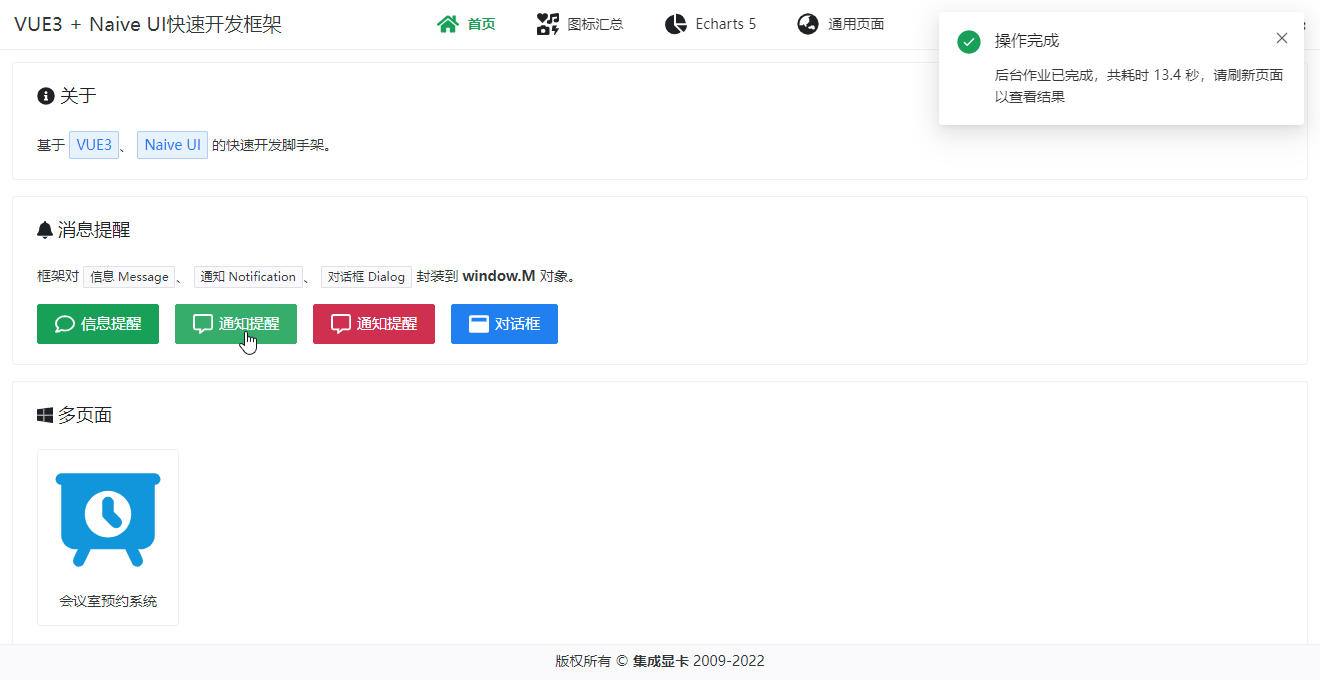
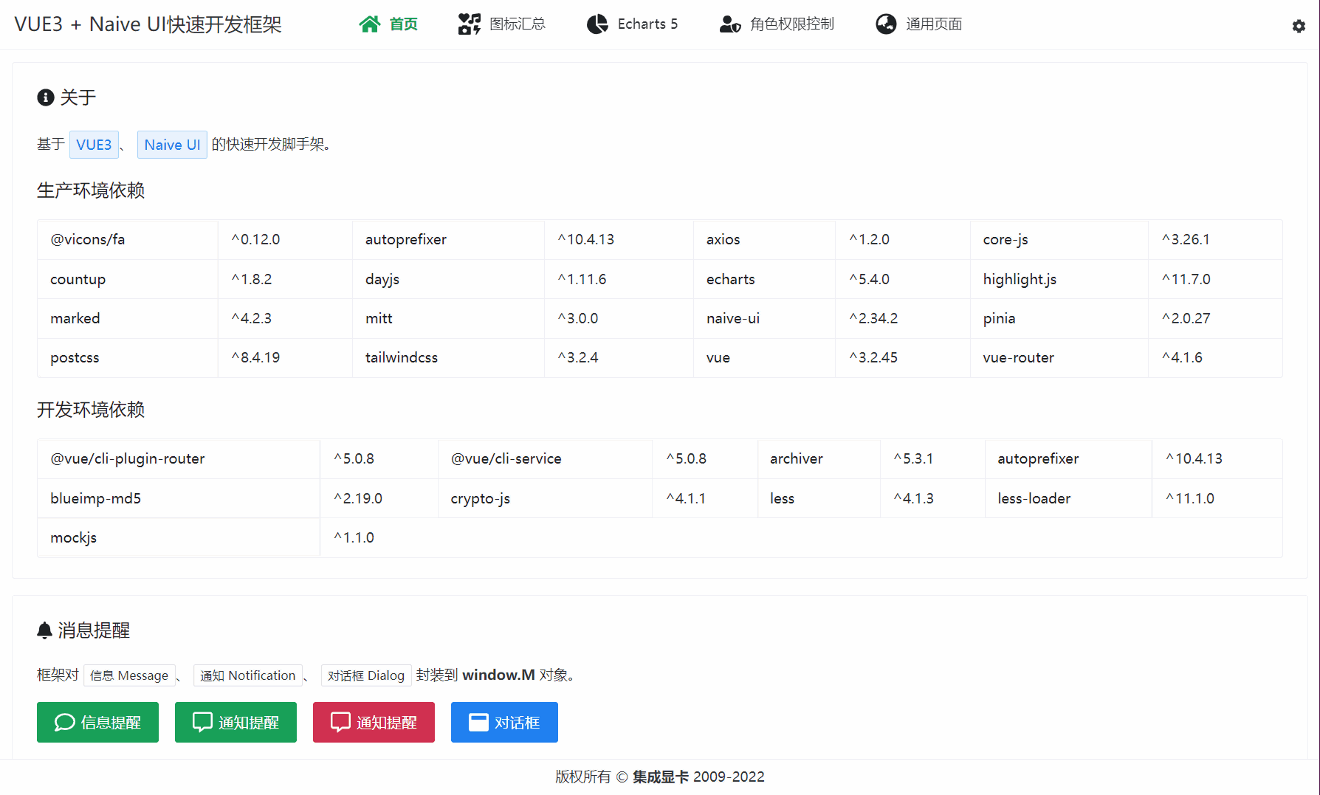
🆙更新依赖版本

diff --git a/src/basic.main.js b/src/basic.main.js
@@ -13,7 +13,55 @@ import { setupDirectives } from '@C/directive'
 
 const isProduction = process.env.NODE_ENV == 'production'
 
-export function initApp(routerPath, enables={}) {
+/**
+ * 向 window 注入全局对象 Config
+ * @param {*} ps
+ */
+const customConfig = (ps = {}) => {
+    window.Config = Object.assign(
+        {
+            JSON: false,                                    //是否以 JSON 格式发送请求，默认 false
+
+            WATERMARK: true,                                //是否显示水印
+            AUTH_URL: "",                                   //远程授权信息获取地址
+            UI_NOTICE_PLACEMENT: "top-right",               //通知框弹出位置
+            appName: window.document.title || _APPNAME_,    //应用名称
+        },
+        ps
+    )
+}
+
+const loadRole = url => new Promise((onOk, onFail) => {
+    RESULT(
+        url, {},
+        d => {
+            let account = Object.assign({ roles: [] }, d.data)
+            //锁定用户对象，不支持修改
+            Object.keys(account).forEach(k => {
+                Object.defineProperty(account, k, { value: account[k], writable: false, enumerable: true, configurable: true })
+            })
+            window.User = account
+            onOk()
+        },
+        {
+            fail(e) {
+                // throw Error(`无法从 ${url} 获取用户信息`, e)
+                console.error(`无法从 ${url} 获取用户信息：`, e)
+                onFail(`无法从 ${url} 获取用户信息`)
+                return true
+            }
+        }
+    )
+})
+
+/**
+ * 初始化应用
+ * @param {*} routerPath    路由对象
+ * @param {*} config        自定义配置，详见 customConfig 方法
+ * @param {*} enables       开关项
+ */
+export async function initApp(routerPath, config={}, enables={}) {
+    customConfig(config)
     enables = Object.assign({banner:true, store: true}, enables)
     if(process.env.NODE_ENV == "test"){
         window.isMock = true
@@ -30,6 +78,10 @@ export function initApp(routerPath, enables={}) {
         //============================================================
         const { setupStore } = require("@/store")
         setupStore(app)
+    }
+
+    if(window.Config.AUTH_URL){
+        await loadRole(window.Config.AUTH_URL).catch(e=> setTimeout(()=> M.notice.error(e), 1000))
     }
 
     if(typeof(routerPath) == 'object' && typeof(routerPath.beforeEach)=='function'){

diff --git a/src/views/demo/Index.vue b/src/views/demo/Index.vue
@@ -6,6 +6,14 @@
         <a href="https://cn.vuejs.org/" target="_blank"><n-tag type="info" class="cursor-pointer">VUE3</n-tag></a>、
         <a href="https://www.naiveui.com" target="_blank"><n-tag type="info" class="cursor-pointer">Naive UI</n-tag></a>
         的快速开发脚手架。
+
+        <n-descriptions class="mt-4"  label-placement="left" bordered :column="4" title="生产环境依赖" size="small">
+            <n-descriptions-item v-for="(version, name) in dependencies" :label="name">{{version}}</n-descriptions-item>
+        </n-descriptions>
+
+        <n-descriptions class="mt-4" label-placement="left" bordered :column="4" title="开发环境依赖" size="small">
+            <n-descriptions-item v-for="(version, name) in devDependencies" :label="name">{{version}}</n-descriptions-item>
+        </n-descriptions>
     </n-card>
 
     <n-card class="mt-4">
@@ -33,7 +41,7 @@
         </n-space>
     </n-card>
 
-    <n-card class="mt-4">
+    <n-card class="mt-2">
         <template #header><Windows class="icon" /> 多页面</template>
 
         <n-space size="large" class="text-center">
@@ -49,7 +57,9 @@
 
 <script setup>
     import { ref,onMounted } from 'vue'
-    import { Cog, InfoCircle,Bell, CommentRegular,CommentAltRegular,WindowMaximize, Windows } from "@vicons/fa"
+    import { Cog, InfoCircle,Bell, CommentRegular,CommentAltRegular,WindowMaximize, Windows, Code } from "@vicons/fa"
+
+    const { dependencies, devDependencies } = _APP_INFO_
 
     let showMessage = text=> M.ok(text)
     let showNotice = ()=> M.notice.ok('后台作业已完成，共耗时 13.4 秒，请刷新页面以查看结果', '操作完成')
@@ -68,8 +78,4 @@
     let jump = url=>{
         location.href = url
     }
-
-    onMounted(() => {
-
-    })
 </script>

diff --git a/src/util/http.js b/src/util/http.js
@@ -2,7 +2,7 @@
  * @Author: 集成显卡
  * @Date: 2022-08-23 13:04:59
  * @Last Modified by: 集成显卡
- * @Last Modified time: 2022-10-08 16:46:43
+ * @Last Modified time: 2022-11-25 16:04:43
  *
  *
  * 注意：
@@ -25,18 +25,6 @@ if(process.env.NODE_ENV == 'production'){
     if(!!token) axios.defaults.headers.common[UA] = window.TOKEN = token
 }
 else {
-    /**
-     * 构建适配于大数据平台跳转到第三方应用的token
-     * @param {*} id
-     * @param {*} name
-     * @param {*} ip
-     * @returns
-     */
-    window.buildToken = (id = "340416", name = "曾行明", ip = "127.0.0.1")=>{
-        let text = `${id}-${name}-${ip}-${new Date().getTime()}`
-        return btoa(encodeURI(text))
-    }
-
     window.changeUser = value=>{
         let user = typeof(value)=='object'? value : {id: value, name:"集成显卡", ip:"127.0.0.1"}
 
@@ -45,7 +33,7 @@ else {
         console.debug(`[测试环境] 切换用户 TOKEN 为：${token} `)
     }
 
-    changeUser("340416")
+    changeUser("admin")
 }
 
 let _dealWithErrorRequest = (url, error, onFail)=>{

diff --git a/src/basic.router.js b/src/basic.router.js
@@ -32,7 +32,10 @@ export default function ( mainComponent, ps) {
         ]
     }
 
-    let blankRouter = {
+    /**
+     * 通过新窗口打开的路由（仅包含页面 footer ）
+     */
+    let windowRouter = {
         path: '/',
         component: WindowView,
         children:  ps.windowRoutes
@@ -41,7 +44,7 @@ export default function ( mainComponent, ps) {
     let routes = [
         ...ps.blankRoutes,
         appRouter,
-        blankRouter,
+        windowRouter,
         {
             path: "/*",
             redirect: "/404"
@@ -59,6 +62,7 @@ export default function ( mainComponent, ps) {
             console.debug(`☹ ${to.name} (${to.fullPath}) 需要权限 ${to.meta.role}，请联系管理员授权 ☹`)
             return next({ name: P403 })
         }
+        window.document.title = (to.meta.title?`${to.meta.title} · `:"") + window.Config.appName
         next()
         // if (to.name != P401 && !window.TOKEN) {
         //     console.debug(`检测到用户未登录，即将跳转到 401 页面`)

diff --git a/src/pages/meeting/Dashboard.vue b/src/pages/meeting/Dashboard.vue
@@ -3,12 +3,10 @@
         <n-text underline>本年度</n-text>
         会议室共被预约 <n-text type="info" class="text-5xl">110</n-text> 次，
         最热门会议室是 <n-text type="info" class="text-5xl">4楼报告厅</n-text>（被预约 <n-text type="info" class="text-3xl">78</n-text> 次 ），
-        <n-text type="info" class="text-5xl">340416/集成显卡</n-text> 预约最多次
+        <n-text type="info" class="text-5xl">集成显卡</n-text> 预约最多次
     </div> -->
     <n-card>
-        <n-spin size="small" :show="loading">
-哈哈哈
-            </n-spin>
+        <n-spin size="small" :show="loading"></n-spin>
         <template #header>
             统计数据
             <n-text :depth="3" class="text-xs ml-2">统计范围为本年度</n-text>

diff --git a/src/util/helper.js b/src/util/helper.js
@@ -2,7 +2,7 @@
  * @Author: 0604hx/集成显卡
  * @Date: 2022-03-20 22:39:28
  * @Last Modified by: 集成显卡
- * @Last Modified time: 2022-10-09 14:51:32
+ * @Last Modified time: 2022-11-25 16:23:04
  *
  * 本工具类主要是提供组件创建功能
  *
@@ -81,13 +81,13 @@ window.H = window.H || {
      * @param {*} list
      */
     toOptions (list, disableFun=()=>false){
-        return (Array.isArray(list)? list:[list]).map(v=>{
-            return {
+        return (Array.isArray(list)? list:[list]).map(v=>(
+            {
                 label:v,
                 value:v,
                 disabled: disableFun(v)
             }
-        })
+        ))
     },
     html (html){
         return ()=>createVNode('div', {innerHTML: html })

diff --git a/vue.config.js b/vue.config.js
@@ -110,7 +110,8 @@ module.exports = {
             new webpack.DefinePlugin({
                 "_APPNAME_": JSON.stringify(pkg.appName),
                 "_VERSION_": JSON.stringify(VERSION),
-                "_MODULE_": JSON.stringify(moduleName)
+                "_MODULE_": JSON.stringify(moduleName),
+                "_APP_INFO_": JSON.stringify({ dependencies: pkg.dependencies, devDependencies: pkg.devDependencies })
             })
         )
 

diff --git a/src/views/Main.vue b/src/views/Main.vue
@@ -1,7 +1,7 @@
 <template>
     <n-layout position="absolute">
         <n-layout-header style="padding: 4px; height: 50px;" bordered>
-            <app-navigation :menus="menus" title-width="320px">
+            <app-navigation :menus="menus" title-width="280px">
                 {{appName}}
             </app-navigation>
         </n-layout-header>
